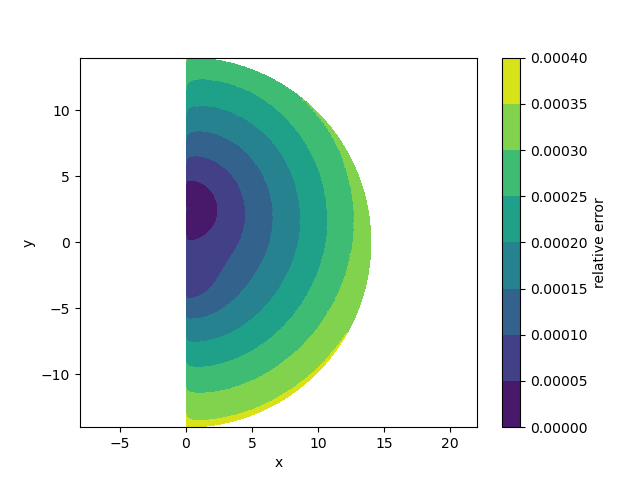
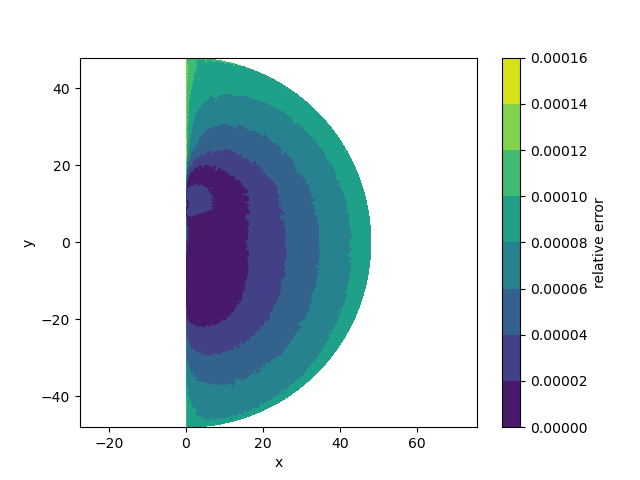
[Minor changes in Python files.]

diff --git a/spheres_2D/spheres_2D.py b/spheres_2D/spheres_2D.py
@@ -677,7 +677,7 @@ def test():
     SOLVER = 'ScipyDirect'
 
     # Mesh size
-    minSize = 0.01
+    minSize = 0.005
     maxSize = 0.5
     ''' === END OF VARIABLES DECLARATION ==='''
 
@@ -705,13 +705,13 @@ def test():
 
     print("\n === YUKAWA GRAVITY ===")
     alpha = 1e-2
-    lmbda = 10
+    lmbda = 40
     rho_0 = 1
 
     result_pp_yukawa= FO2S.get_yukawa_force(mesh_int, mesh_ext, alpha=alpha,
                                             lmbda=lmbda, rho_0=rho_0)
     F_Y, _, F_ana_Y, epsilon_Y = FO2S.postprocess_force(postprocess_file=result_pp_yukawa,
-                                               alpha=alpha, lmbda=lmbda,
-                                               rho_0=rho_0, getYukawa=True)
+                                                alpha=alpha, lmbda=lmbda,
+                                                rho_0=rho_0, getYukawa=True)
 
-#test()
+test()

diff --git a/spheres_2D/yukawa_gravity.py b/spheres_2D/yukawa_gravity.py
@@ -51,8 +51,8 @@ COORSYS = 'cylindrical'
 SOLVER = 'ScipyDirect'
 
 # Mesh size
-minSize = 0.005
-maxSize = 0.5
+minSize = 0.001
+maxSize = 0.3
 
 ''' === END OF VARIABLES DECLARATION ==='''
 
@@ -100,7 +100,7 @@ for i in range(len(lmbda_list)):
     axs[1].semilogy(d, epsilon[:, i])
 
 # Removing the space between the plots because it's prettier this way
-fig.subplots_adjust(hspace=0)
+#fig.subplots_adjust(hspace=0)
 
 # Adding all the features that could explain the graphic to my future self
 # (and obv also make it look a bit less confusing for people)
@@ -112,10 +112,10 @@ axs[0].set_ylabel('$F_Y ~[N]$')
 axs[1].set_ylabel('Ɛ')
 axs[1].set_xlabel('$d ~[m]$')
 
-axs[1].set_ylim(top=1.1)
+axs[1].set_ylim(top=2)
 
 axs[0].grid()
 axs[1].grid()
 
-plt.savefig("Spheres_2D_Yukawa.png", inches='tight')
+plt.savefig("Spheres_2D_Yukawa.png", bbox_inches='tight')
 #plt.show()

diff --git a/spheres_2D/newton_gravity.py b/spheres_2D/newton_gravity.py
@@ -47,8 +47,8 @@ COORSYS = 'cylindrical'
 SOLVER = 'ScipyDirect'
 
 # Mesh size
-minSize = 0.005
-maxSize = 0.5
+minSize = 0.001
+maxSize = 0.3
 ''' === END OF VARIABLES DECLARATION ==='''
 
 # The distances that will be calculated
@@ -108,6 +108,7 @@ twin_ax.semilogy(d, epsilon[:, 1], color='red')
 twin_ax.axhline(y=np.mean(epsilon[:, 0]), ls='--', color='green')
 twin_ax.axhline(y=np.mean(epsilon[:, 1]), ls='--', color='red')
 twin_ax.legend(['$ε_1$', '$ε_2$'], fontsize='small')
-twin_ax.set_yticks(mepsilon, [f"{mepsilon[0]:.3e}", f"{mepsilon[1]:.3e}"])
+twin_ax.set_yticks(mepsilon, [f"{mepsilon[0]:.3e}", f"{mepsilon[1]:.3e}"], minor=True)
+
 
 plt.savefig("Spheres_2D_Newton.png", bbox_inches='tight')
